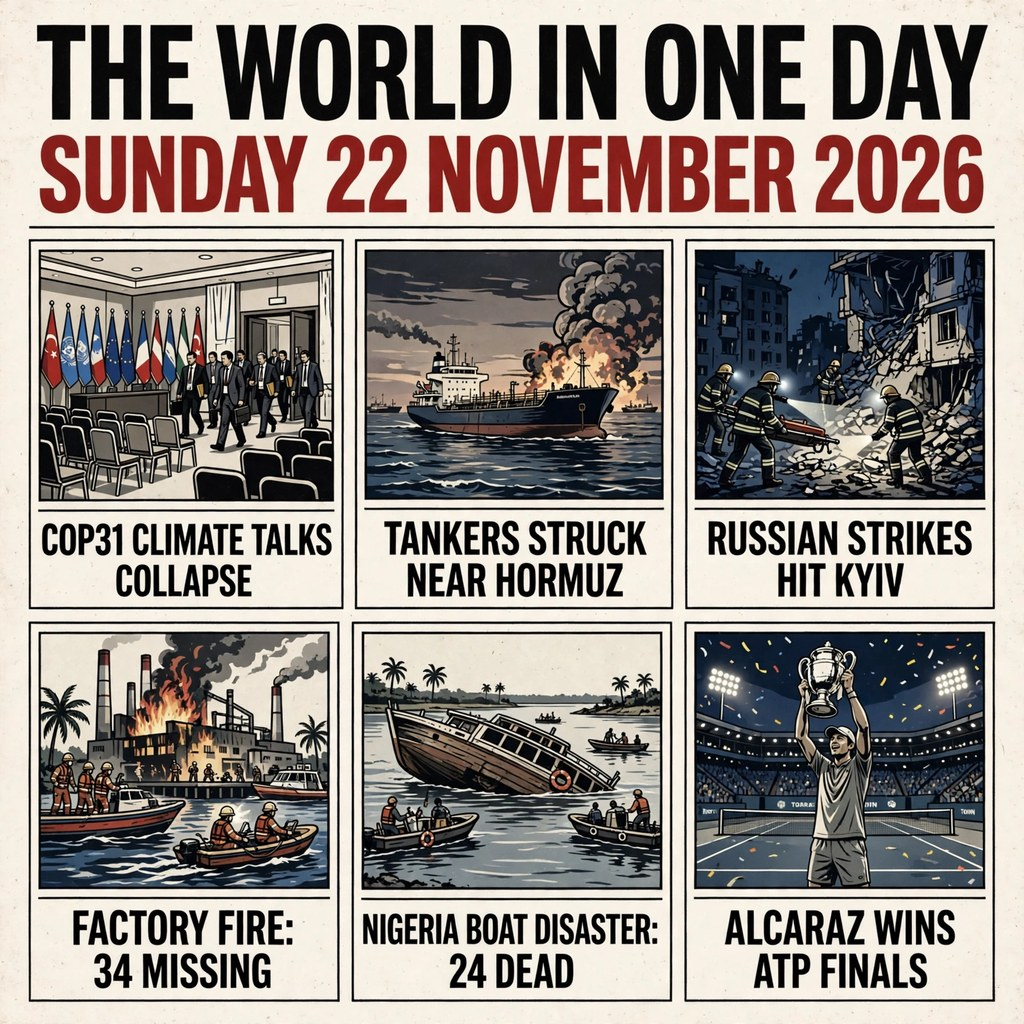
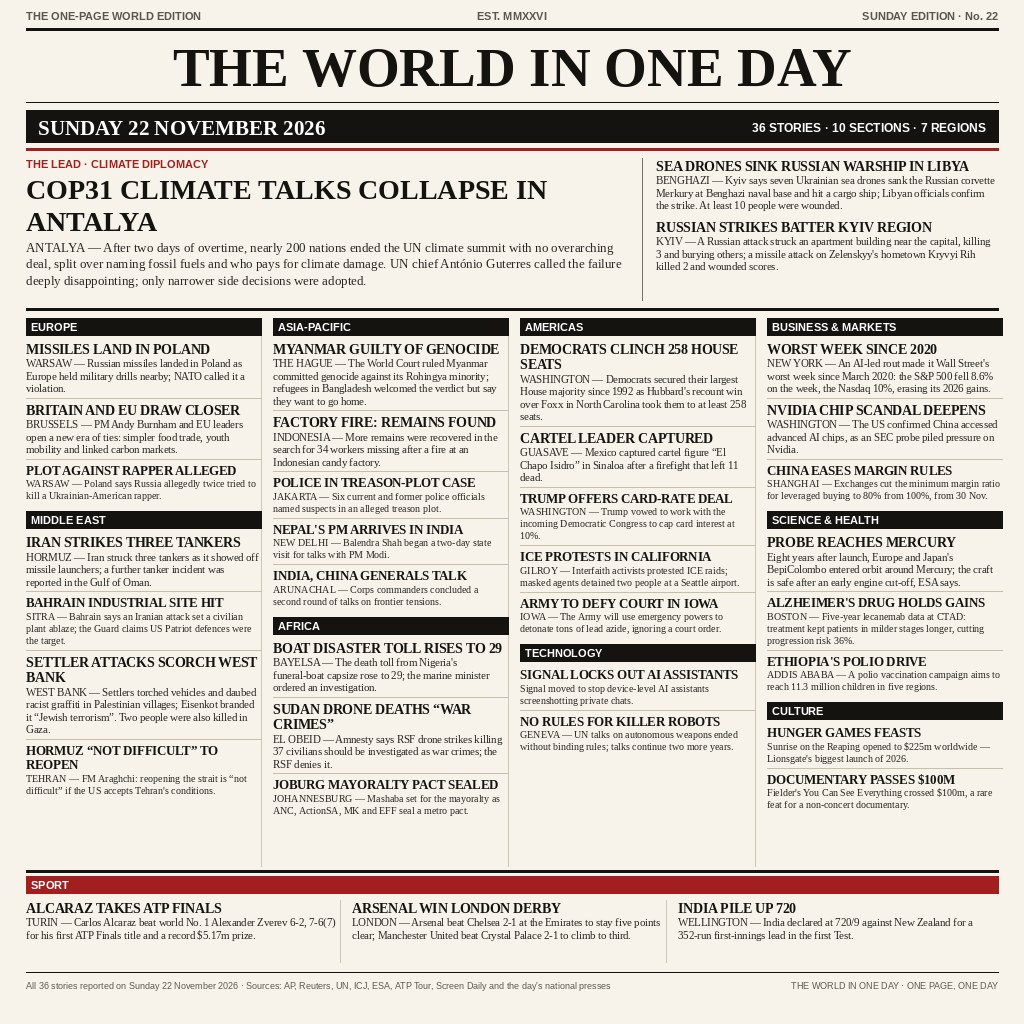
Rebuild front page: 36 dated stories across 10 sections (round 1)
Replace the 6-panel picture page with a dense broadsheet front page for
Sunday 22 November 2026: COP31 collapse lead, Benghazi sea-drone strike
and Kyiv strikes beside it, then Europe, Middle East, Asia-Pacific,
Africa, Americas, Business & Markets, Technology, Science & Health and
Culture columns and a Sport band. Every story was reported on the day.
main.ts now verifies the copied bytes match the source size.

diff --git a/main.ts b/main.ts
@@ -7,14 +7,26 @@
 //
 // Locally:  mkdir -p out && MAKEFUN_OUTPUT_DIR=out node main.ts
 
-import { copyFileSync, mkdirSync } from 'node:fs';
+import { copyFileSync, mkdirSync, statSync } from 'node:fs';
 import { dirname, join } from 'node:path';
 import { fileURLToPath } from 'node:url';
 
 const here = dirname(fileURLToPath(import.meta.url));
 const outDir = process.env.MAKEFUN_OUTPUT_DIR ?? '/output';
+const src = join(here, 'entry.png');
+const dst = join(outDir, 'entry.png');
 
 // The grader hands us a writable /output; locally MAKEFUN_OUTPUT_DIR may
 // point at a folder that does not exist yet, so make sure it is there.
 mkdirSync(outDir, { recursive: true });
-copyFileSync(join(here, 'entry.png'), join(outDir, 'entry.png'));
+copyFileSync(src, dst);
+
+// Both grader runs must produce the same bytes, so verify the copy landed
+// whole: a size mismatch would mean a truncated write, and failing loudly
+// here beats silently submitting a broken image to the gate.
+const want = statSync(src).size;
+const got = statSync(dst).size;
+if (got !== want) {
+  throw new Error(`entry.png copy truncated: wrote ${got} of ${want} bytes`);
+}
+console.log(`entry.png: ${got} bytes copied to ${dst}`);
